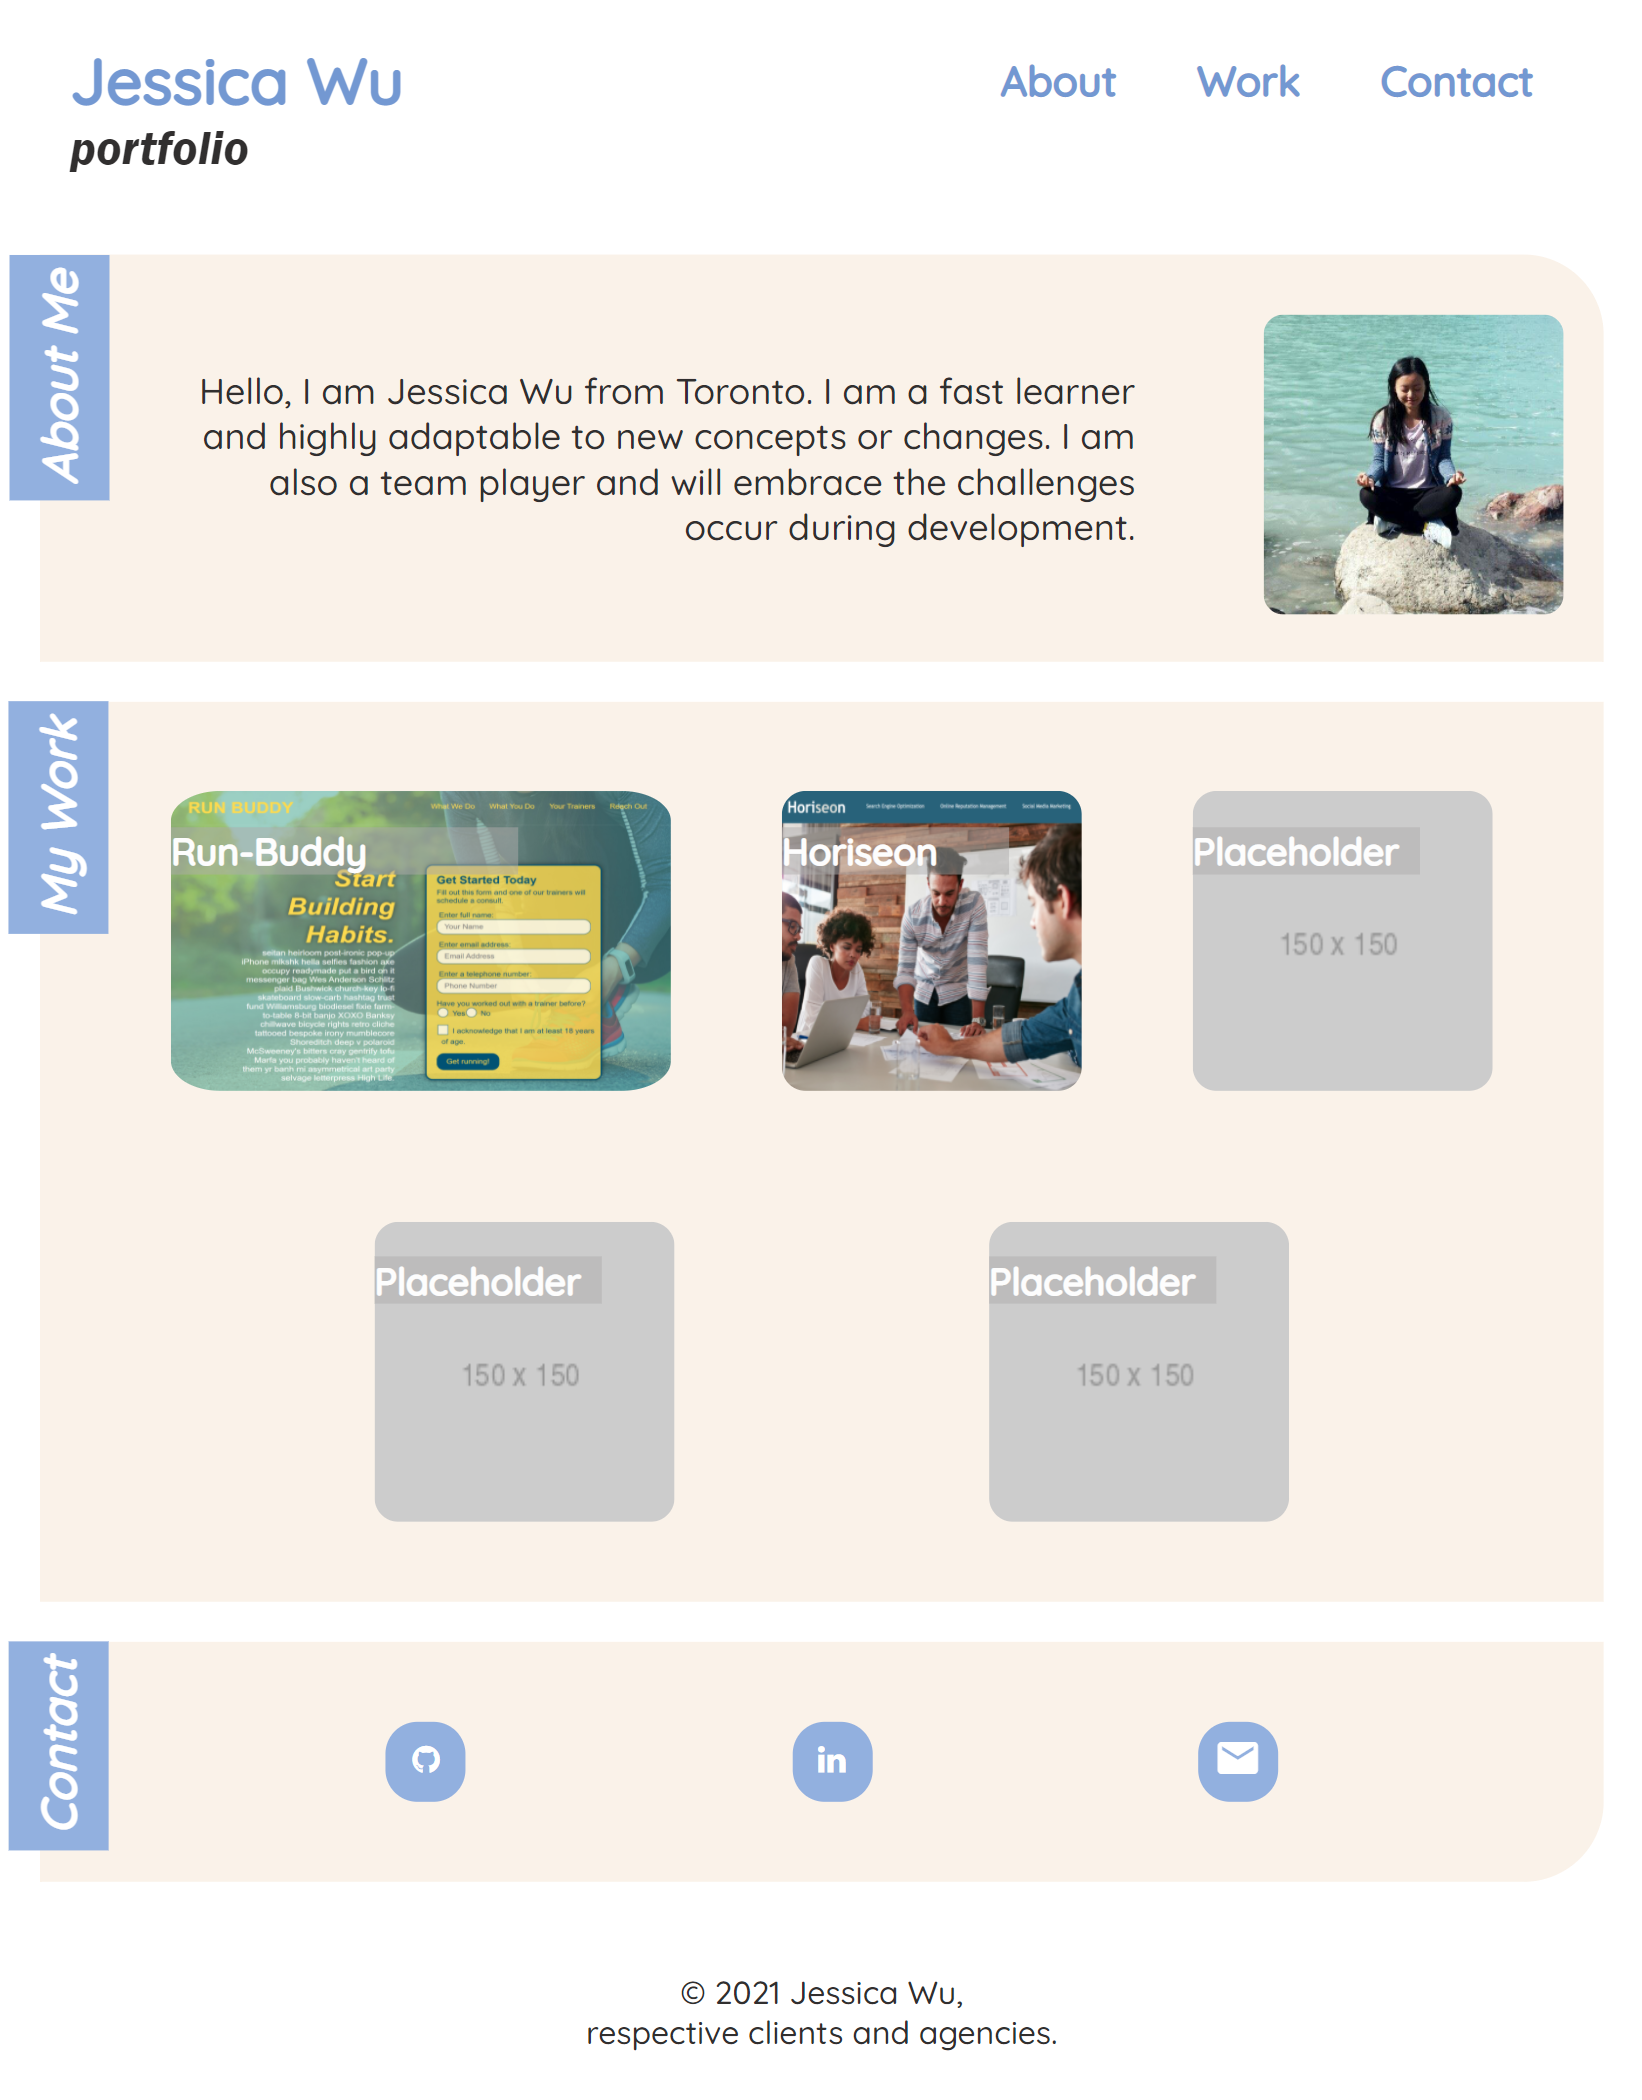
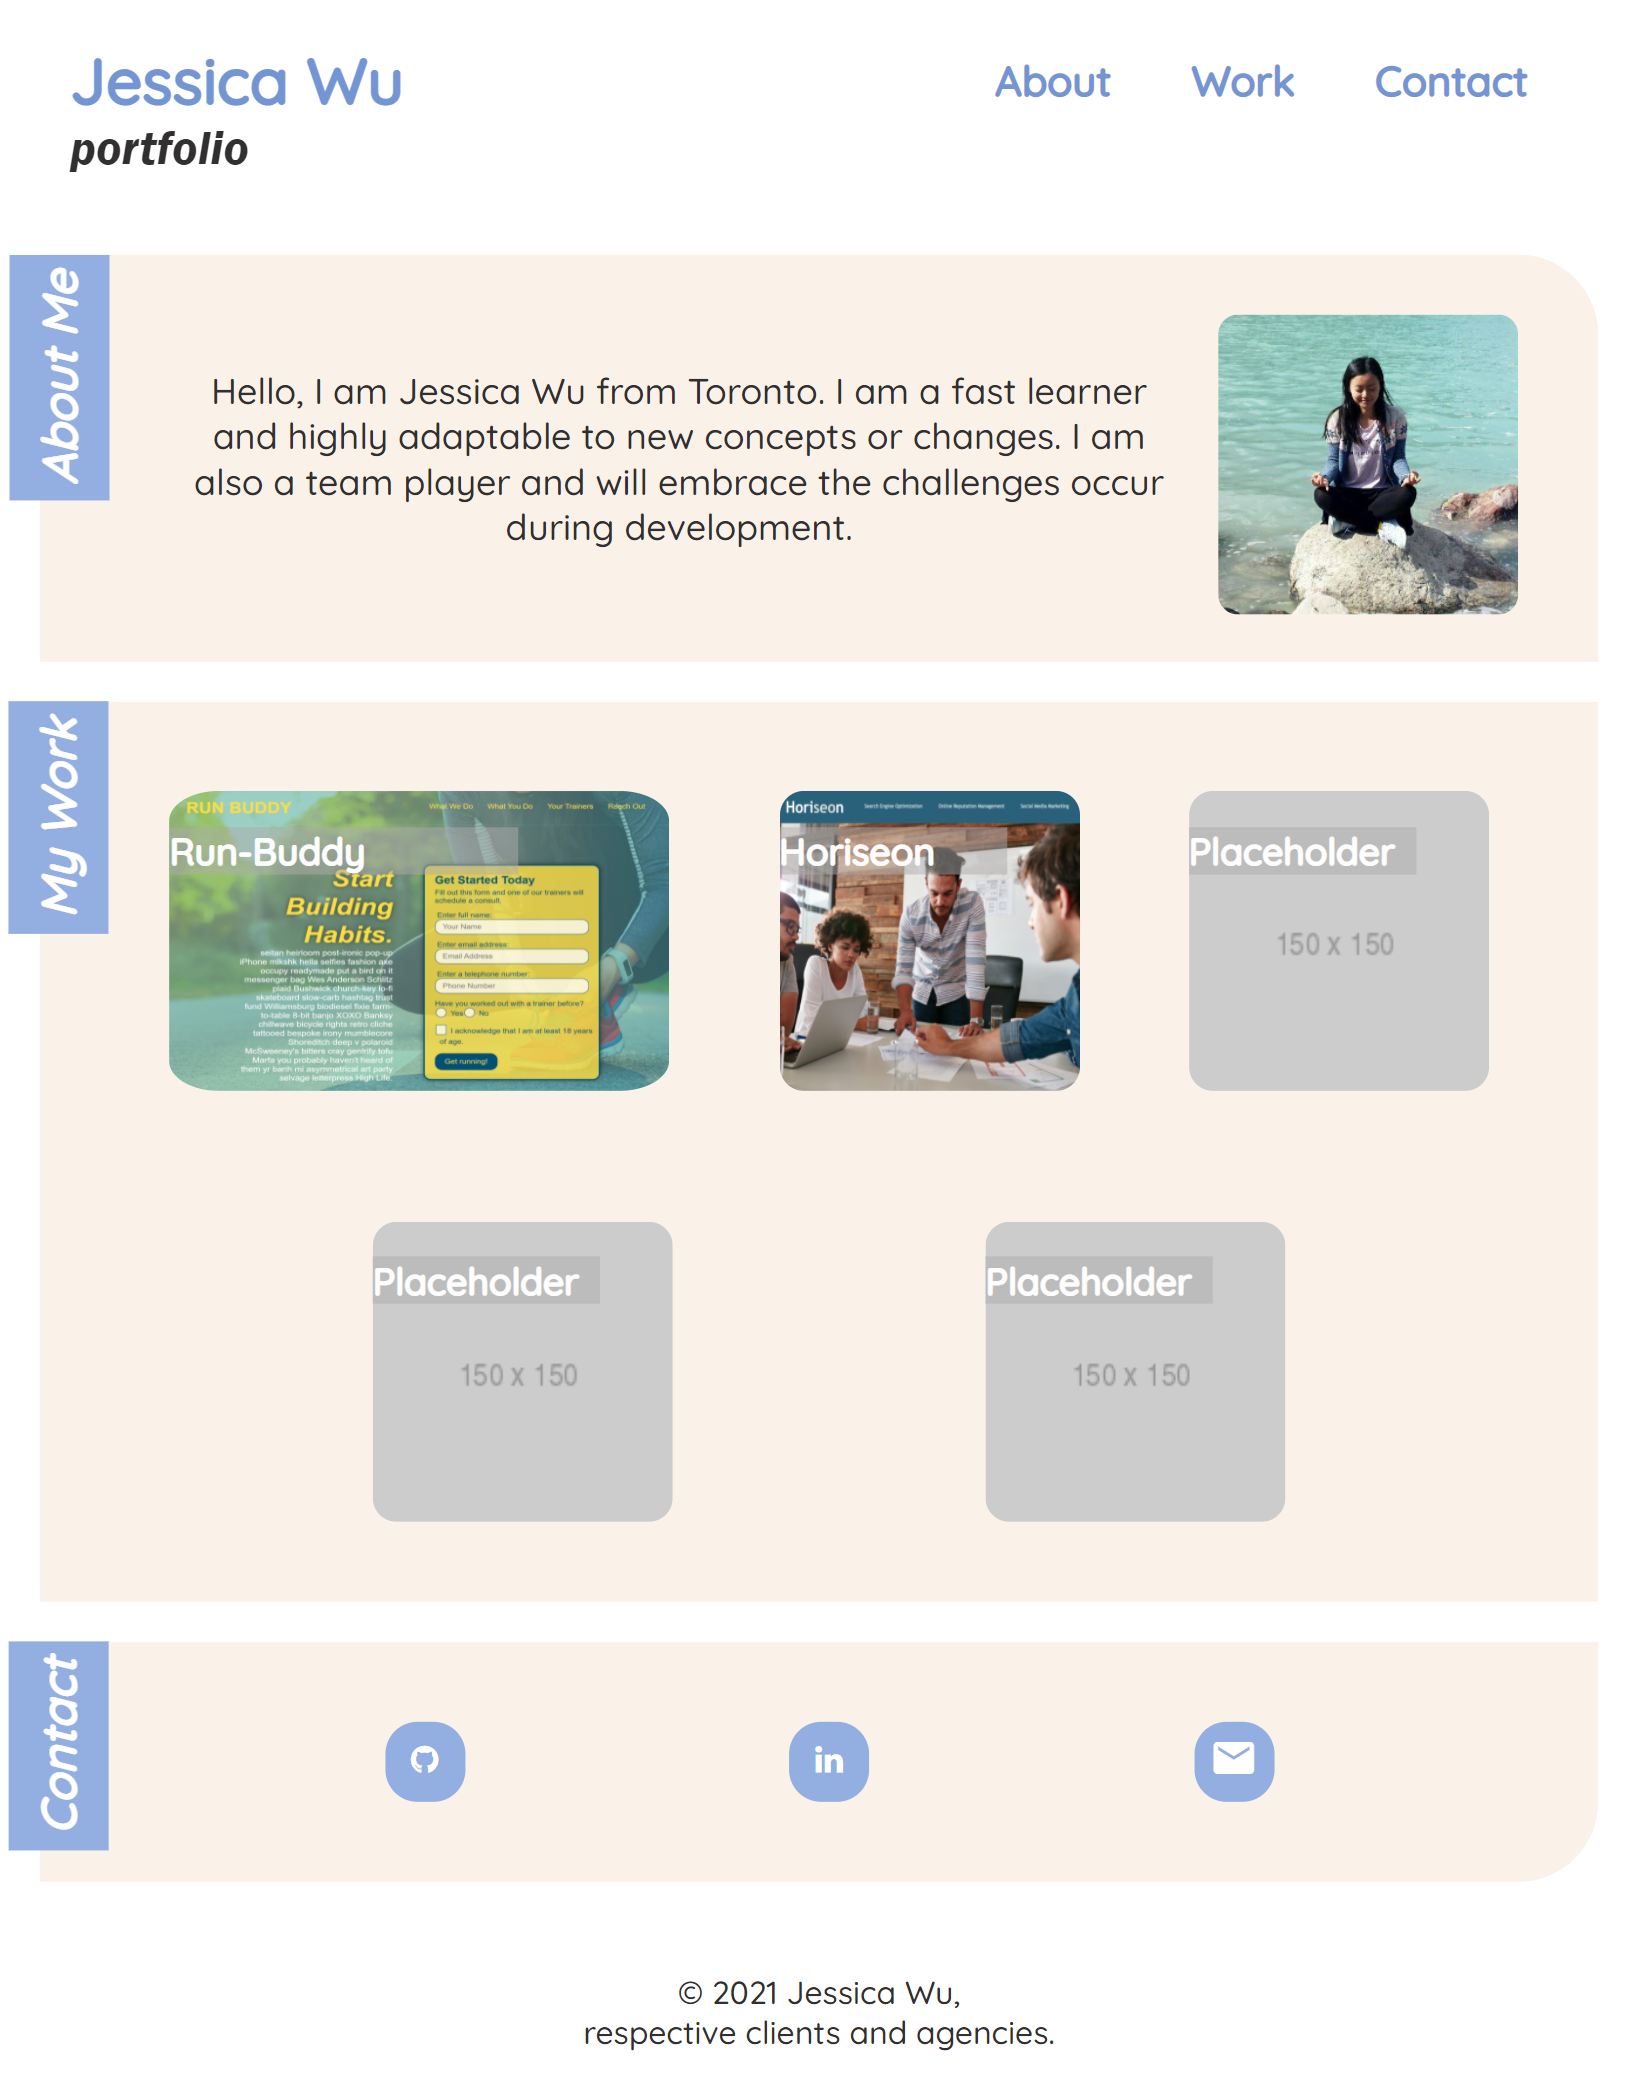
updated css styling

diff --git a/assets/style.css b/assets/style.css
@@ -30,6 +30,7 @@ header h2 {
     color: rgb(49, 47, 47);;
 }
 
+/* Add hover effect */
 .nav a:hover {
     opacity: 0.7;
     color: rgb(159, 98, 202);
@@ -115,7 +116,6 @@ section {
     width: 150px;
     height: 150px;
     border-radius: 8%;
-
 }
 
 .work-img1 img {
@@ -143,7 +143,7 @@ section {
     width: 60%;
 }
 
-/* Add a hover effect if you want */
+/* Add a hover effect */
 .work-img:hover, .work-img1 img:hover {
     opacity: 0.5;
     transform: scale(1.1);
@@ -181,7 +181,7 @@ section {
      border-radius: 40%;
 }
 
-  /* Add a hover effect if you want */
+  /* Add a hover effect */
 .fa:hover, .material-icons:hover {
     opacity: 0.7;
     border-radius: 50%;
@@ -214,10 +214,9 @@ nav ul li a{
 .image-text p{
     width: 120%;
     font-size: 18px;
-    text-align: left;
+    text-align: center;
     padding-bottom: 20px;
     padding-right: 10px;
-}
 }
 
 @media screen and (min-width: 768px) {
@@ -227,7 +226,25 @@ nav ul li a{
 }
 
 .image-text p {
-    width: 90%;
+    width:100%;
+    text-align: center;
+    padding-top: 10px;
+    padding-right: 20px;
+}
+
+.image img {
+    margin-right: 20px;
+}
+
+@media screen and (min-width: 1094px) {
+
+.image-text p {
+    width:100%;
     text-align: right;
     padding-top: 10px;
+    padding-right: 20px;
+}
+    
+.image img {
+    margin-right: 100px;
 }
